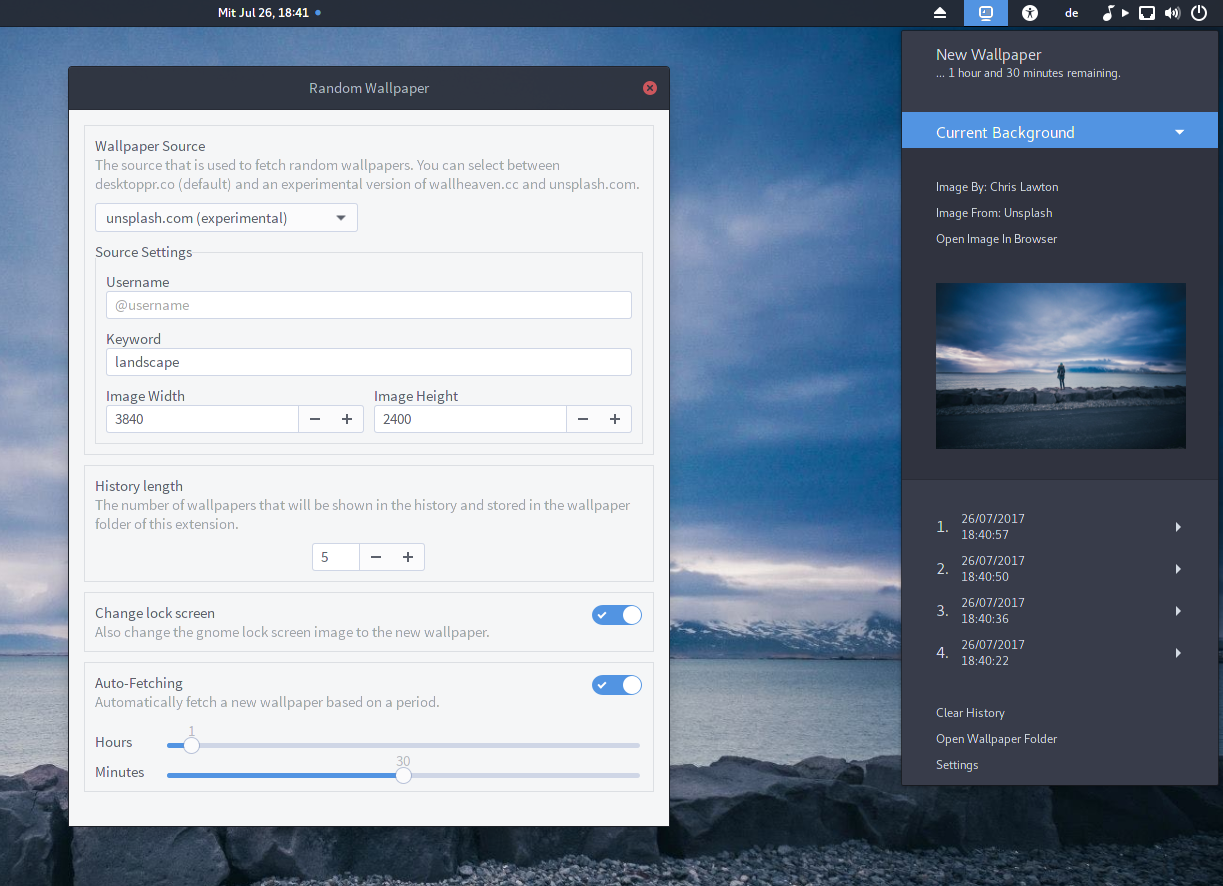
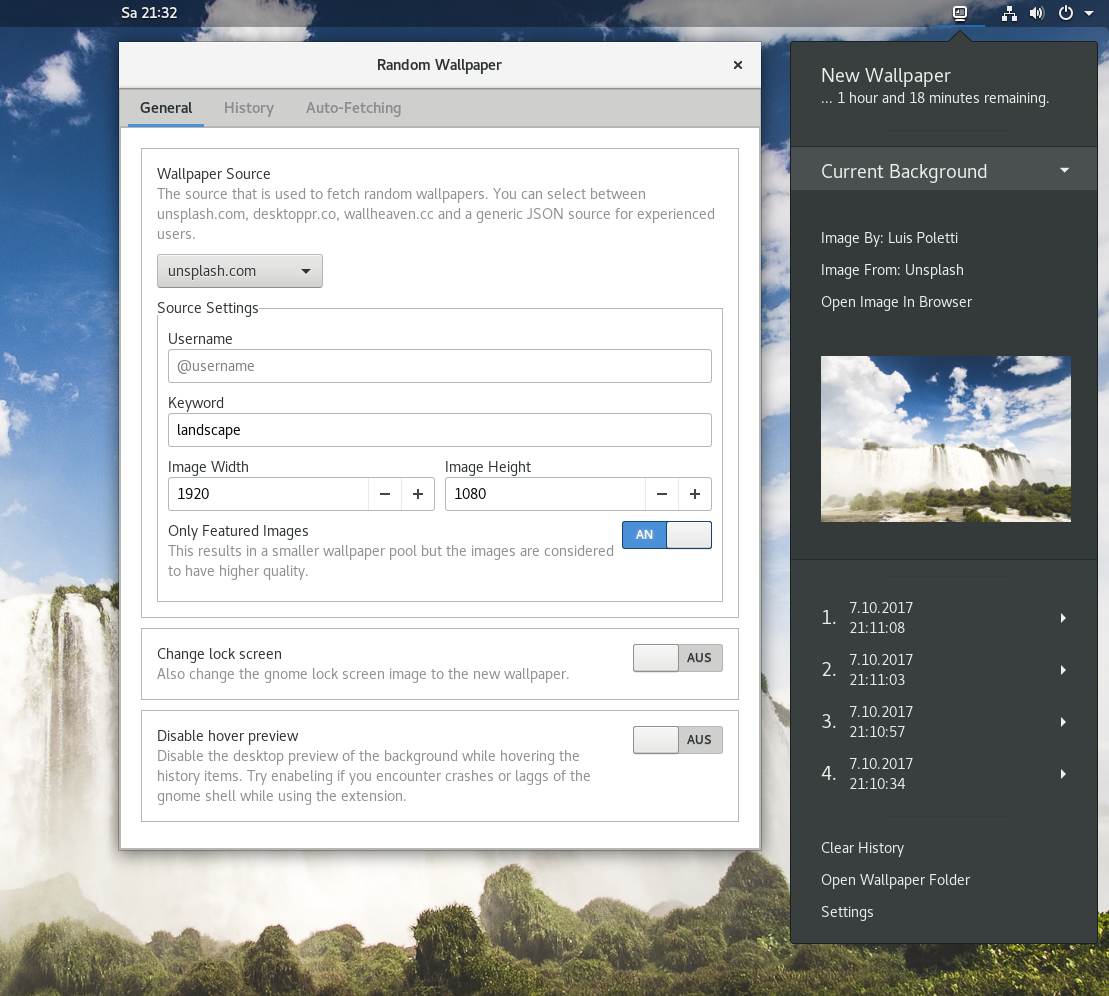
Finalize release: - change default source to unsplash.com - change order of the sources - fix descriptions in settings - change default history size to 5 - add new screenshot

diff --git a/randomwallpaper@iflow.space/prefs.js b/randomwallpaper@iflow.space/prefs.js
@@ -89,11 +89,11 @@ const RandomWallpaperSettings = new Lang.Class({
 			}
 
 			switch (sourceCombo.active) {
-				case 0: // desktopper
-					this.currentSourceSettingsWidget = this.desktopperSettings;
-					break;
-				case 1: // unsplash
+				case 0: // unsplash
 					this.currentSourceSettingsWidget = this.unsplashSettings;
+					break;
+				case 1: // desktopper
+					this.currentSourceSettingsWidget = this.desktopperSettings;
 					break;
 				case 2: // wallheaven
 					this.currentSourceSettingsWidget = this.wallheavenSettings;

diff --git a/randomwallpaper@iflow.space/wallpaperController.js b/randomwallpaper@iflow.space/wallpaperController.js
@@ -91,10 +91,10 @@ let WallpaperController = new Lang.Class({
 		this.imageSourceAdapter = this._desktopperAdapter;
 		switch (this._settings.get('source', 'enum')) {
 			case 0:
-				this.imageSourceAdapter = this._desktopperAdapter;
+				this.imageSourceAdapter = this._unsplashAdapter;
 				break;
 			case 1:
-				this.imageSourceAdapter = this._unsplashAdapter;
+				this.imageSourceAdapter = this._desktopperAdapter;
 				break;
 			case 2:
 				this.imageSourceAdapter = this._wallheavenAdapter;
